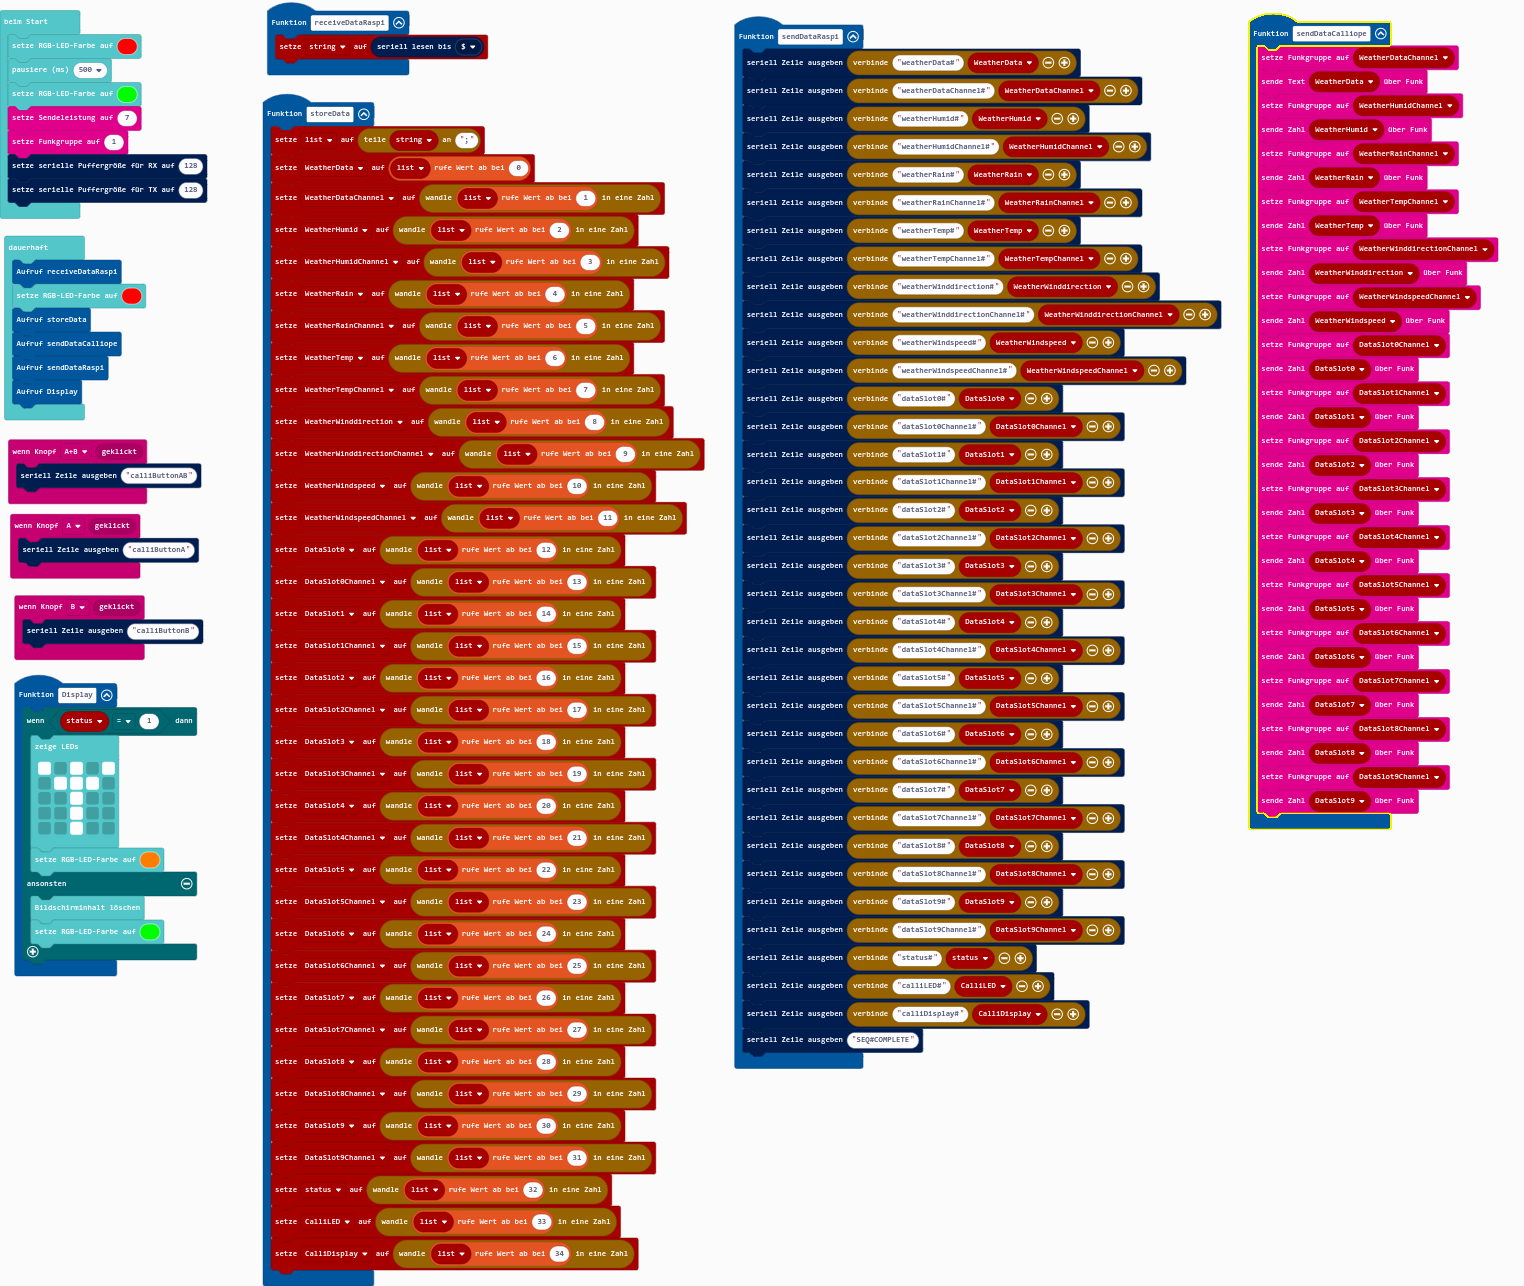
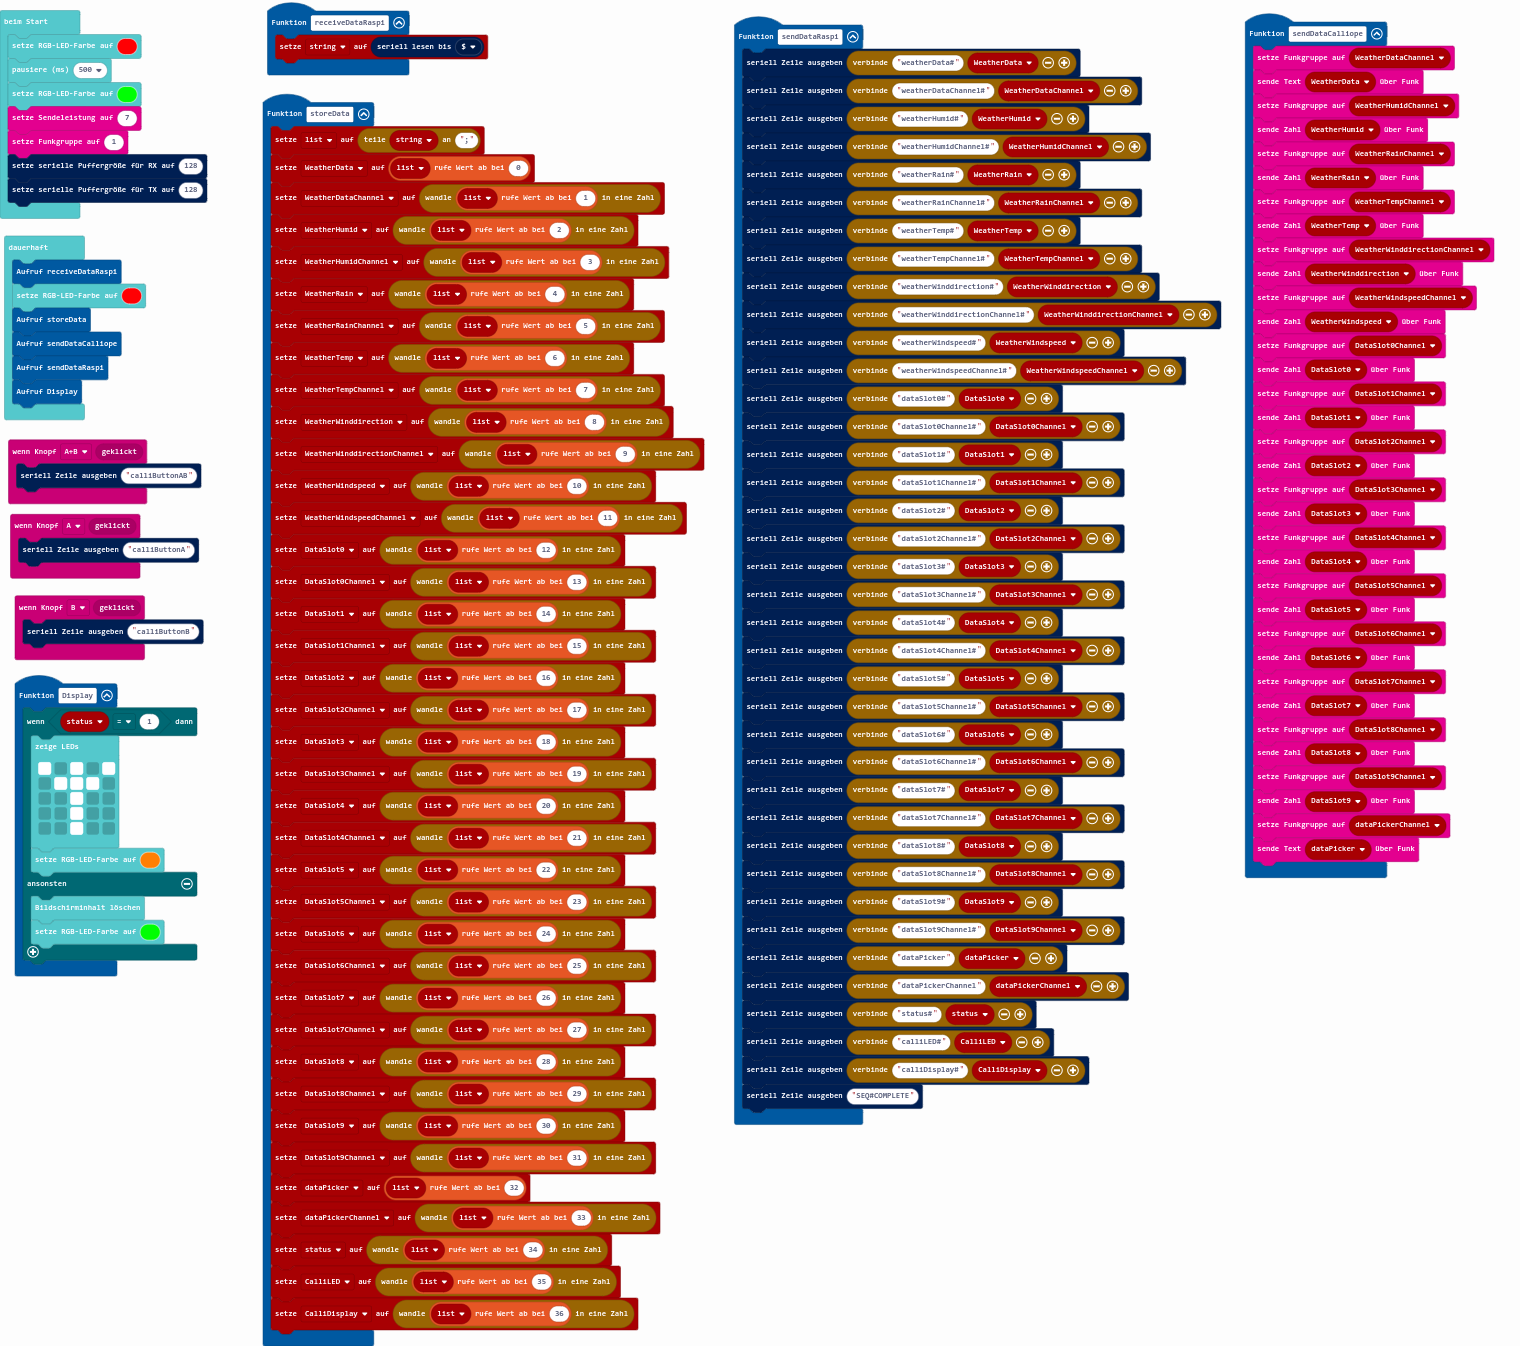
added dataPicker(Channel)

diff --git a/main.ts b/main.ts
@@ -31,6 +31,8 @@ function sendDataCalliope () {
     radio.sendNumber(DataSlot8)
     radio.setGroup(DataSlot9Channel)
     radio.sendNumber(DataSlot9)
+    radio.setGroup(dataPickerChannel)
+    radio.sendString("" + (dataPicker))
 }
 input.onButtonEvent(Button.A, input.buttonEventClick(), function () {
     serial.writeLine("calliButtonA")
@@ -92,6 +94,8 @@ function sendDataRaspi () {
     serial.writeLine("dataSlot8Channel#" + DataSlot8Channel)
     serial.writeLine("dataSlot9#" + DataSlot9)
     serial.writeLine("dataSlot9Channel#" + DataSlot9Channel)
+    serial.writeLine("dataPicker" + dataPicker)
+    serial.writeLine("dataPickerChannel" + dataPickerChannel)
     serial.writeLine("status#" + status)
     serial.writeLine("calliLED#" + CalliLED)
     serial.writeLine("calliDisplay#" + CalliDisplay)
@@ -131,15 +135,19 @@ function storeData () {
     DataSlot8Channel = parseFloat(list[29])
     DataSlot9 = parseFloat(list[30])
     DataSlot9Channel = parseFloat(list[31])
-    status = parseFloat(list[32])
-    CalliLED = parseFloat(list[33])
-    CalliDisplay = parseFloat(list[34])
+    dataPicker = list[32]
+    dataPickerChannel = parseFloat(list[33])
+    status = parseFloat(list[34])
+    CalliLED = parseFloat(list[35])
+    CalliDisplay = parseFloat(list[36])
 }
 let list: string[] = []
 let CalliDisplay = 0
 let CalliLED = 0
 let string = ""
 let status = 0
+let dataPicker = ""
+let dataPickerChannel = 0
 let DataSlot9 = 0
 let DataSlot9Channel = 0
 let DataSlot8 = 0
